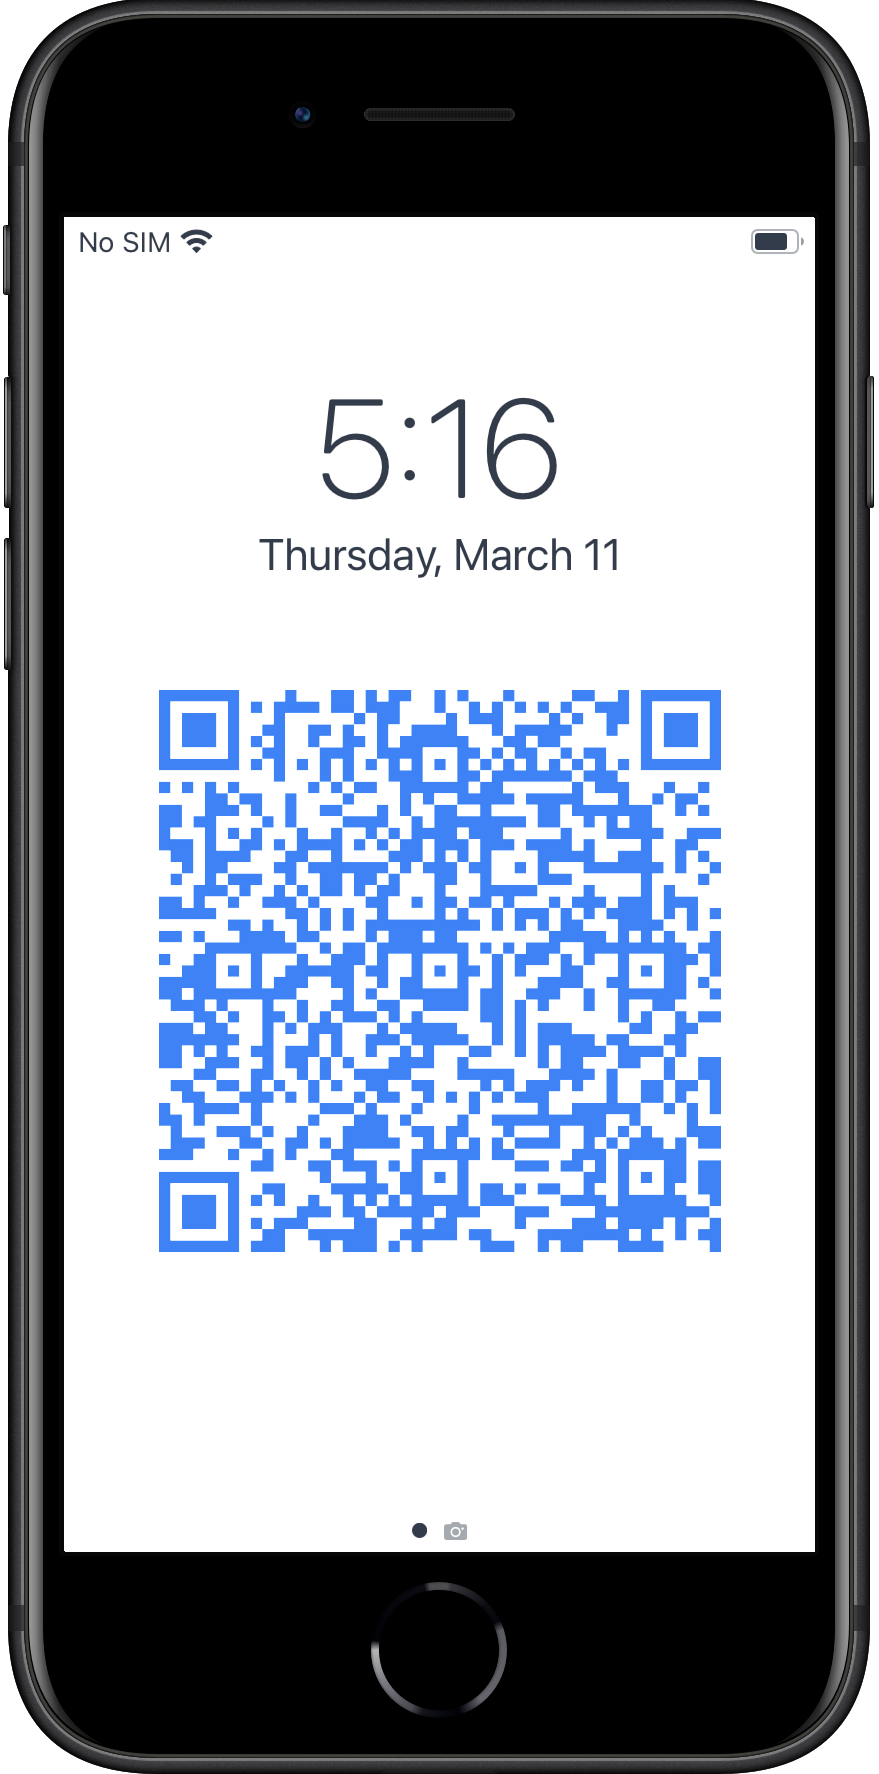
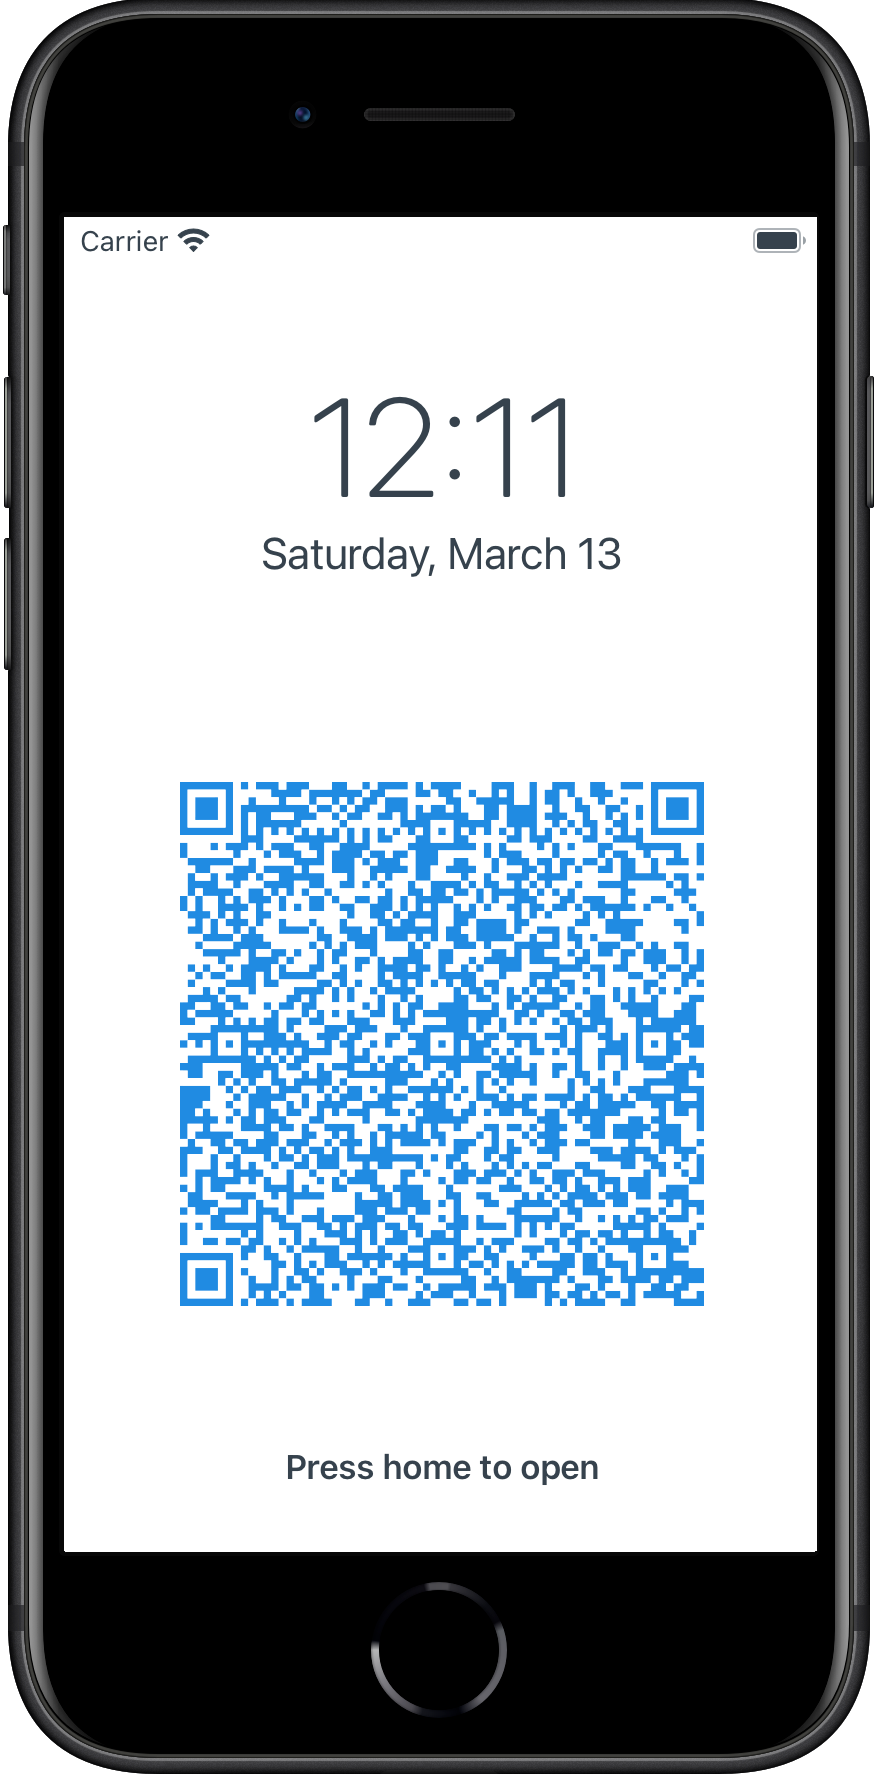
update

diff --git a/screens/QRCode/PreviewScreen.js b/screens/QRCode/PreviewScreen.js
@@ -185,6 +185,7 @@ export default class PreviewScreen extends React.Component {
     const contrast = fontColorContrast(backgroundColor);
     const infoBarColor = contrast === '#000000' ? '#7b7b7a' : '#1c1c1e'
 
+    const qrcodesize = width - width * .3
     return (
       <View style={[styles.container, {backgroundColor }]}>
         <StatusBar barStyle={contrast === '#000000' ? 'dark-content' : 'light-content'} />
@@ -193,25 +194,33 @@ export default class PreviewScreen extends React.Component {
           </FadeInOut>
         <ViewShot
           ref="viewShot"
-          style={{ flex: 1, backgroundColor }}
+          style={{ flex: 1, backgroundColor}}
           onCapture={(uri) => this.setState({ imageBase64: uri })}
           captureMode="mount"
           options={{ result: 'data-uri' }}
 
         >
           <View
-            style={[
-              styles.qrcodecontainer,
-              { flex: 1, backgroundColor, justifyContent: 'flex-end', bottom: 150 },
-            ]}>
-              <Draggable touchableOpacityProps={{activeOpacity:1}} maxX={50} minX={50} x={50} y={Dimensions.get('window').height*.5+80}>
-             
-                  <QRCode
-                    value={json.json?.qrcode}
-                    size={width - width * 0.25}
-                    color={qrCodeColor}
-                    backgroundColor={backgroundColor}
-                  />
+            style={
+              // {...styles.qrcodecontainer},
+              { backgroundColor, flex: 1, justifyContent:'center', alignItems:'center'}
+            }>
+              <Draggable 
+                style={{}} 
+                touchableOpacityProps={{activeOpacity:1}} 
+                maxX={Dimensions.get('window').width / 2 - (qrcodesize/2)} 
+                minX={Dimensions.get('window').width / 2 - (qrcodesize/2)} 
+                x={Dimensions.get('window').width / 2 - (qrcodesize/2)} 
+                y={Dimensions.get('window').height / 2 - (qrcodesize/2)+80}
+              >
+              <View style={{}}>
+                <QRCode
+                        value={json.json?.qrcode}
+                        size={qrcodesize}
+                        color={qrCodeColor}
+                        backgroundColor={backgroundColor}
+                      />
+              </View>
             </Draggable>
           </View>
         </ViewShot>

diff --git a/screens/QRCode/StyleScreen.js b/screens/QRCode/StyleScreen.js
@@ -36,6 +36,13 @@ export default class StyleScreen extends React.Component {
     const bright =  json.json?.style?.qrCodeColor ? json.json.style.qrCodeColor : randomColor({luminosity: 'bright'})
     const dark =  json.json?.style?.backgroundColor ? json.json.style.backgroundColor : randomColor({luminosity: 'dark'})
  
+    // website colors
+    // const bright = "#208be2"
+    // const dark = "#ffffff"
+
+    //app store screenshot colors
+    // const bright = "#208be2"
+    // const dark = "#6ec9f6"
     const colorBright = tinycolor(bright);    
     const colorDark = tinycolor(dark);    
     const colorBrightArray = colorBright.toHsv()

diff --git a/App.js b/App.js
@@ -65,9 +65,12 @@ export default function App() {
           },
           qrcode: '',
         };
+        setJson(JSON.parse(value));
         await AsyncStorage.setItem('json', JSON.stringify(value));
       }
-      setJson(JSON.parse(value));
+      else{
+        setJson(JSON.parse(value));
+      }
     };
     lockOrientation();
 
